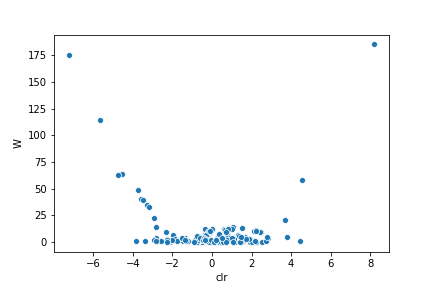
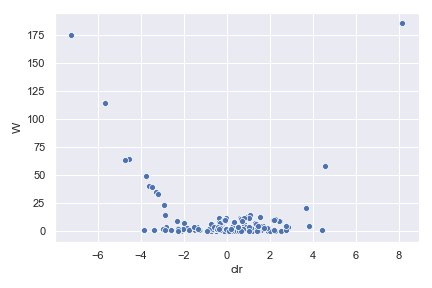
Update ancom_volcano_plot method

diff --git a/dokdo/api/read_quality_plot.py b/dokdo/api/read_quality_plot.py
@@ -37,31 +37,28 @@ def read_quality_plot(visualization, strand='forward', ax=None, figsize=None):
 
     Examples
     --------
-    Below is a simple example.
+    Below is a simple example:
 
-    >>> qzv_file = '/Users/sbslee/Desktop/dokdo/data/atacama-soil-microbiome-tutorial/demux-subsample.qzv'
-    >>> fig, [ax1, ax2] = plt.subplots(1, 2, figsize=(8, 7))
-    >>> artist_kwargs1 = dict(title='Forward read')
-    >>> artist_kwargs2 = dict(title='Reverse read', hide_ylabel=True, hide_yticklabels=True)
-    >>> dokdo.read_quality_plot(qzv_file, strand='forward', ax=ax1, artist_kwargs=artist_kwargs1)
-    >>> dokdo.read_quality_plot(qzv_file, strand='reverse', ax=ax2, artist_kwargs=artist_kwargs2)
-    >>> plt.tight_layout()
+    .. code:: python3
+
+        import dokdo
+        import matplotlib.pyplot as plt
+        %matplotlib inline
+        import seaborn as sns
+        sns.set()
+        fig, [ax1, ax2] = plt.subplots(1, 2, figsize=(10, 5))
+        qzv_file = '/Users/sbslee/Desktop/dokdo/data/atacama-soil-microbiome-tutorial/demux-subsample.qzv'
+        dokdo.read_quality_plot(qzv_file, strand='forward', ax=ax1)
+        dokdo.read_quality_plot(qzv_file, strand='reverse', ax=ax2)
+        ax1.set_title('Forward read')
+        ax2.set_title('Reverse read')
+        ax2.set_ylabel('')
+        ax2.set_yticklabels([])
+        ax2.autoscale(enable=True, axis='x', tight=False)
+        plt.tight_layout()
 
     .. image:: images/read_quality_plot.png
     """
-
-# import dokdo
-# import matplotlib.pyplot as plt
-# import seaborn as sns
-# sns.set()
-# %matplotlib inline
-# fig, [ax1, ax2] = plt.subplots(1, 2, figsize=(15, 5))
-# qzv_file = '/Users/sbslee/Desktop/dokdo/data/atacama-soil-microbiome-tutorial/demux-subsample.qzv'
-# dokdo.read_quality_plot(qzv_file, strand='forward', ax=ax1)
-# dokdo.read_quality_plot(qzv_file, strand='reverse', ax=ax2)
-# ax2.set_ylabel('')
-# ax2.set_yticks([])
-# plt.tight_layout()
 
     with tempfile.TemporaryDirectory() as t:
         common.export(visualization, t)
@@ -87,9 +84,7 @@ def read_quality_plot(visualization, strand='forward', ax=None, figsize=None):
                 medianprops=dict(color='red'),
                 whiskerprops=dict(linestyle=':'))
 
-    xticks = np.arange(df['Base'].min(), df['Base'].max(), 20).tolist()
-
-    print(df['Base'].min(), df['Base'].max())
+    xticks = [int(x) for x in np.linspace(0, df['Base'].max(), 11).tolist()]
 
     ax.set_xlabel('Sequence base')
     ax.set_ylabel('Quality score')

diff --git a/dokdo/api/ancom_volcano_plot.py b/dokdo/api/ancom_volcano_plot.py
@@ -44,9 +44,13 @@ def ancom_volcano_plot(
     .. code:: python3
 
         import dokdo
+        import matplotlib.pyplot as plt
         %matplotlib inline
+        import seaborn as sns
+        sns.set()
         qzv_file = '/Users/sbslee/Desktop/dokdo/data/moving-pictures-tutorial/ancom-subject.qzv'
         dokdo.ancom_volcano_plot(qzv_file)
+        plt.tight_layout()
 
     .. image:: images/ancom_volcano_plot_1.png
 
@@ -56,6 +60,7 @@ def ancom_volcano_plot(
     .. code:: python3
 
         dokdo.ancom_volcano_plot(qzv_file, s=80, color='black', alpha=0.5)
+        plt.tight_layout()
 
     .. image:: images/ancom_volcano_plot_2.png
     """
